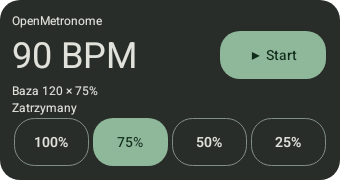
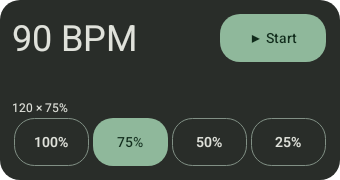
Update README previews after simplifying widget captions

diff --git a/docs/WIDGETS.md b/docs/WIDGETS.md
@@ -72,7 +72,7 @@ Nie zaliczamy tego odbioru ani fizycznego audio na podstawie testów automatyczn
 ## Pochodzenie ilustracji README
 
 Zrzuty aplikacji i renderowane zasoby RemoteViews pochodzą z cichych testów PROD
-na API35: [przebieg 42521205946](https://github.com/Franek2009/OpenMetronome/actions/runs/42521205946),
-commit `926e6fef8158160e17edc146dfb77b2625797137`. Interfejs jest po 1.1;
+na API35: [przebieg 42529192488](https://github.com/Franek2009/OpenMetronome/actions/runs/42529192488),
+commit `020c2ca2d1a081c5f327cad00618f080f9c9ae74`. Interfejs jest po 1.1;
 widgety są rozwojową funkcją 1.2. Dane są izolowanymi/przykładowymi danymi testowymi.
 Podglądy widgetów nie dokumentują instalacji w launcherze Samsunga.

diff --git a/README.md b/README.md
@@ -77,7 +77,7 @@ bez animowanego pulsu ani osobnego zegara audio.
 Start/Stop steruje wspólną sesją; dotknięcie BPM otwiera metronom. Procenty
 zmieniają mnożnik bez nadpisywania bazy. Zapis `120 × 75%` pokazuje bazę
 i wybrany procent; strzałka `→` oznacza zmianę oczekującą na zastosowanie.
-Przy 100% ta linia znika. Większa wysokość panelu odsłania −1/+1 bazy.
+Przy 100%, bez oczekującej zmiany, ta linia znika. Większa wysokość panelu odsłania −1/+1 bazy.
 Widget statystyk pokazuje zapisany czas dzisiaj, serię i aktywne dni tygodnia;
 dotknięcie otwiera Statystyki.
 
